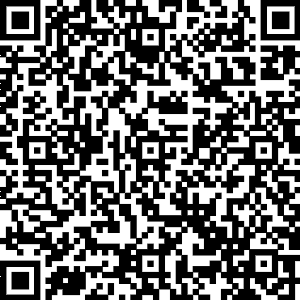
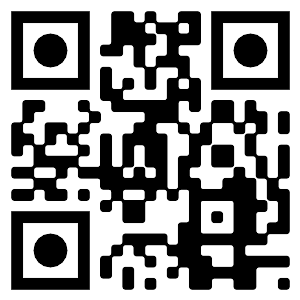
Refactor : change qrcode value

diff --git a/resources/views/admin/event/absensi.blade.php b/resources/views/admin/event/absensi.blade.php
@@ -23,9 +23,10 @@
                     <td>{{ $user->name }}</td>
                     <td>{{ $user->role }}</td>
                     <td style="white-space: nowrap;">
-                        <form class="form-hadir" action="{{ route('absensi.store', $user->id) }}" method="POST">
+                        <form class="form-hadir" action="{{ route('absensi.store') }}" method="POST">
                             @csrf
                             <input type="text" name="iEventId" value="{{$event->id}}" hidden>
+                            <input type="email" name="iEmail" value="{{$user->email}}" hidden>
                             <button type="submit" class="btn btn-xs btn-success shadow">
                                 Hadir
                                 <i class="fa fa-lg fa-fw fa-check-circle"></i>
@@ -83,37 +84,14 @@
     $('.form-hadir').submit(function(event) {
         event.preventDefault();
         var form = $(this);
-        var url = form.attr('action');
-        var method = form.attr('method');
-        var token = $('meta[name="csrf-token"]').attr('content');
         var iEventId = $('input[name="iEventId"]').val();
+        var iEmail = form.find('input[name="iEmail"]').val();
 
-        $.ajax({
-            url: url,
-            method: method,
-            headers: {
-                'X-CSRF-TOKEN': token
-            },
-            data: {
-                iEventId: iEventId // include the value in the data parameter
-            },
-            success: function(response) {
-                Swal.fire({
-                    icon: 'success',
-                    title: 'Absen Berhasil',
-                    text: response.message,
-                    // timer: 2000
-                })
-            },
-            error: function(response) {
-                Swal.fire({
-                    icon: 'error',
-                    title: 'Absen Gagal',
-                    text: response.responseJSON.message,
-                    // timer: 2000
-                });
-            }
-        });
+        const data = {
+            iEventId,
+            iEmail
+        }
+        submitAjaxForm(data);
     });
 
 var lastScannedText = null;
@@ -123,22 +101,28 @@ function onScanSuccess(decodedText, decodedResult) {
         console.log('Duplicate scan, skipping request');
         return;
     }
-    console.log(`Scan result: ${decodedText}`, decodedResult);
+    const iEmail = decodedText; // Replace with the actual user ID
+    const iEventId = {{ $event->id }}; // Use the decoded text as the event ID
 
-    const userId = decodedText; // Replace with the actual user ID
-    const eventId = {{ $event->id }}; // Use the decoded text as the event ID
+    const data =  {
+                    iEventId, // include the value in the data parameter
+                    iType : 'scanner',
+                    iEmail
+                }
 
+    submitAjaxForm(data);
+    lastScannedText = decodedText;
+}
+
+function submitAjaxForm(data) {
     var token = $('meta[name="csrf-token"]').attr('content');
     $.ajax({
-            url: `/admin/absensi/user/${userId}`,
+            url: `/admin/absensi/user`,
             method: 'POST',
             headers: {
                 'X-CSRF-TOKEN': token
             },
-            data: {
-                iEventId: eventId, // include the value in the data parameter
-                iType : 'scanner'
-            },
+            data: data,
             success: function(response) {
                 Swal.fire({
                     icon: 'success',
@@ -159,9 +143,6 @@ function onScanSuccess(decodedText, decodedResult) {
                 });
             }
     });
-
-    lastScannedText = decodedText;
-
 }
 
 let html5QrCode;

diff --git a/app/Http/Controllers/Event/AbsensiController.php b/app/Http/Controllers/Event/AbsensiController.php
@@ -22,28 +22,17 @@ class AbsensiController extends Controller
     /**
      * Store a newly created resource in storage.
      */
-    public function store(Request $request, $id)
+    public function store(Request $request)
     {
-        $userId = $id;
-        if($request->iType == 'scanner'){
-            try {
-                $userId = Crypt::decrypt($id);
-            } catch (\Illuminate\Contracts\Encryption\DecryptException $e) {
-                // Handle decryption error, such as returning null or throwing an exception
-                return response()->json(['message' => 'User not found.'], 404);
-            }
-        }
-
-        $user = User::find($userId);
+        $user = User::where('email', $request->iEmail)->first();
         $eventId = $request->iEventId;
-
         if (!$user) {
             return response()->json(['message' => 'User not found.'], 404);
         }
         //check is user has absen
-        $absen = Absensi::where('event_id', $eventId)->where('user_id', $userId)->first();
+        $absen = Absensi::where('event_id', $eventId)->where('user_id', $user->id)->first();
         if($absen){
-            return response()->json(['message' => 'User sudah registrasi :).'], 404);
+            return response()->json(['message' => 'Kamu sudah registrasi']);
         }
 
         $absensi  = Absensi::create([

diff --git a/routes/web.php b/routes/web.php
@@ -37,7 +37,7 @@ Route::prefix('admin')
             Route::resource('/kabinet', KabinetController::class);
             Route::resource('/event', EventController::class);
             Route::resource('/absensi', AbsensiController::class)->except('store');
-            Route::post('/absensi/user/{id}', [AbsensiController::class, 'store'])->name('absensi.store');
+            Route::post('/absensi/user', [AbsensiController::class, 'store'])->name('absensi.store');
             Route::get('/design/create', [DesignRequestController::class, 'create'])->name('design.create');
             Route::post('/design/create', [DesignRequestController::class, 'store'])->name('design.store');
         });

diff --git a/app/Http/Controllers/UserController.php b/app/Http/Controllers/UserController.php
@@ -281,8 +281,12 @@ class UserController extends Controller
 
         $qrCodeFilePath = public_path('/assets/qrcode.png');
         $qrCode = QrCode::format('png')
+                ->style('round')
+                ->margin(1)
+                ->errorCorrection('Q')
+                ->eye('circle')
                 ->size(300)
-                ->generate($id, $qrCodeFilePath);
+                ->generate($user->email, $qrCodeFilePath);
         
         $qrCodeImage = Image::make($qrCodeFilePath)->resize(350, 350);
         $image->insert($qrCodeImage, 'center', -12, -34);    
